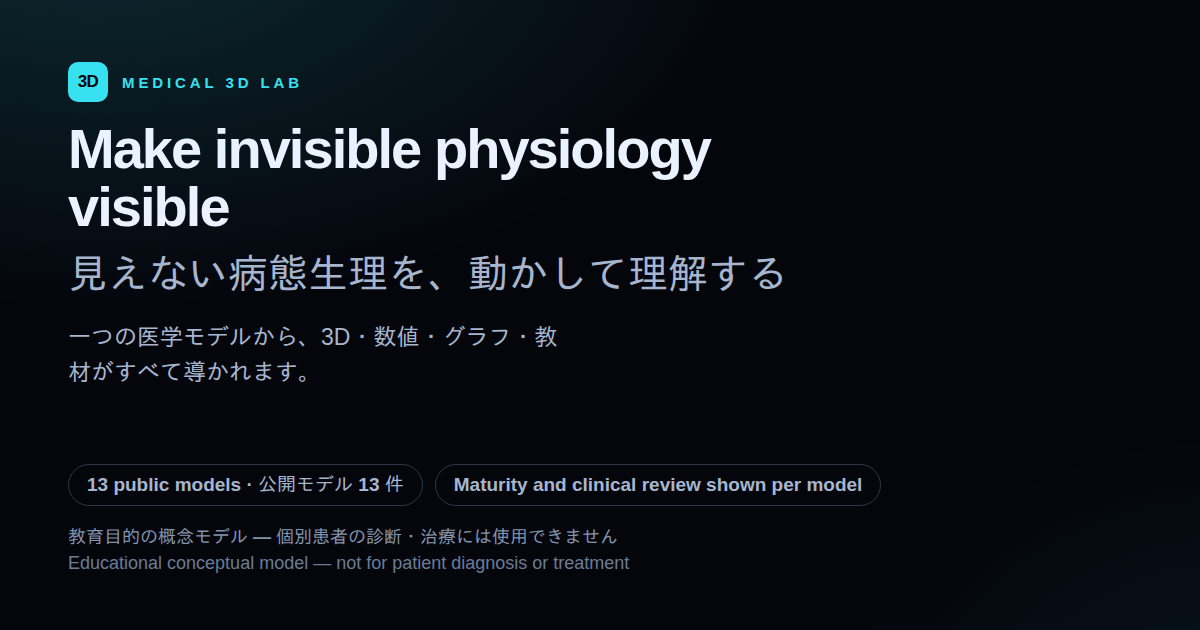
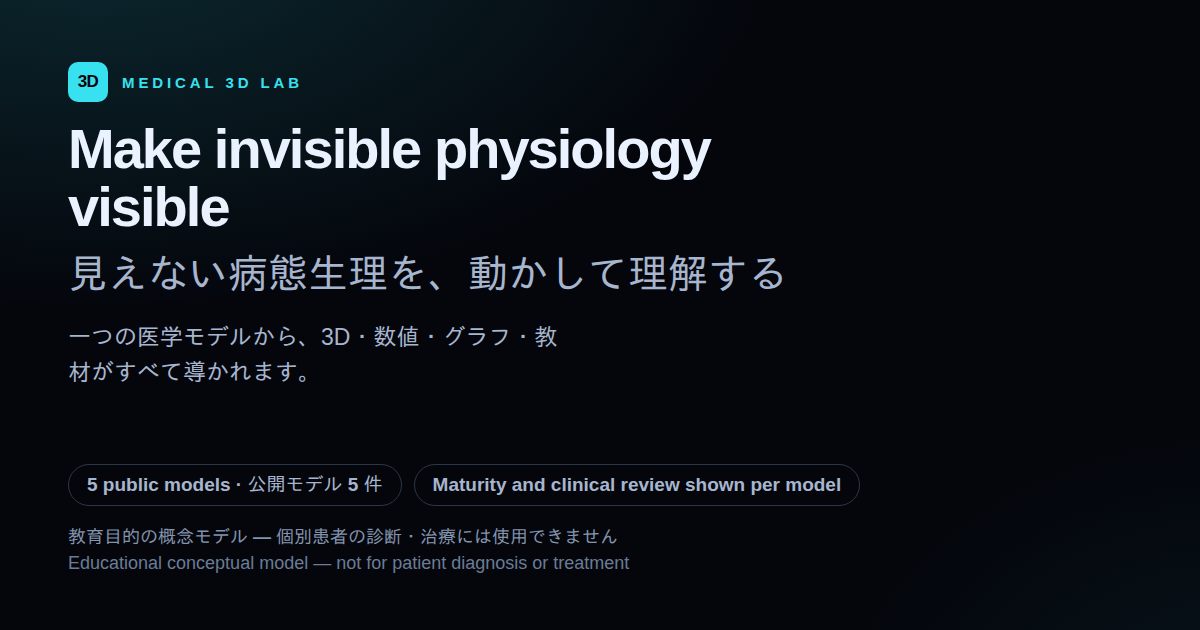
Make the crawlable set open AND public, and stop shipping cards for pages that do not exist
Two defects, and the first one is mine from the previous commit.

Pointing the build at `RELEASED_SCENES` fixed the beta and broke what comes
after it: `isSceneReleased` returns true for everything once the channel is
no longer `'beta'`, so the day the release opens is the day fourteen
Prototypes are published to the crawlable surface — the one thing this
project had already decided not to do. It would not have shown until then.

There are two independent reasons to withhold a page and a set that
satisfies only one of them is a bug in whichever channel it is not checked
in, so `CRAWLABLE_SCENES` holds both together: open, because a static page
inviting a reader to "open the interactive model" that answers "to be
updated" is a promise the site cannot keep; and public, because a Prototype
in a search result is exactly where its caveat gets stripped off. The test
exercises the case the beta cannot reach — everything open — and asserts the
set is then the public catalogue and no more.

The second is the one left standing at the end of the audit. Link-preview
cards were still drawn for all thirteen public scenes, eight of which no
longer have a page to preview: 1.3 MB of images shipped in `public/` that
nothing can reach, and the site card advertising "13 public models" when
five are open. The card set is the crawlable set now, the eight are gone,
and the site card counts what is actually open.

The five surviving scene cards re-rendered byte-identical, which is the
[…]

Changed region(s): [[0.0617, 0.754, 0.74, 0.7841]]

diff --git a/tests/beta-release.test.js b/tests/beta-release.test.js
@@ -2,9 +2,10 @@ import test from 'node:test';
 import assert from 'node:assert/strict';
 import { readFileSync } from 'node:fs';
 
-import { SCENES, sceneById } from '../src/catalog/index.js';
+import { PUBLIC_SCENES, SCENES, sceneById } from '../src/catalog/index.js';
 import {
   BETA_ORGANS,
+  CRAWLABLE_SCENES,
   DEV_UNLOCK_PARAM,
   DEV_UNLOCK_STORAGE_KEY,
   LOCKED_SCENES,
@@ -293,16 +294,20 @@ test('beta release: the crawlable surface and the in-scene navigator read the ga
   // shell that configures the switcher — so what is checked is that each takes
   // its scenes from the gate rather than from the public catalogue.
   const config = read('vite.config.js');
-  assert.match(config, /RELEASED_SCENES/);
-  assert.doesNotMatch(config, /scenes: PUBLIC_SCENES/);
+  assert.match(config, /scenes: CRAWLABLE_SCENES/);
+  assert.doesNotMatch(config, /scenes: (PUBLIC|RELEASED)_SCENES/);
 
   const app = read('src/app/App.js');
   assert.match(app, /systemsWithScenes\(betaUnlocked\(\) \? SCENES : RELEASED_SCENES\)/);
   assert.match(app, /showLab: betaUnlocked\(\)/);
 
   const siteCheck = read('scripts/check-site-output.js');
-  assert.match(siteCheck, /LOCKED_SCENES/, 'the build check has to fail when a locked scene is published');
-  assert.match(siteCheck, /RELEASED_SCENES/);
+  assert.match(siteCheck, /CRAWLABLE_SCENES/);
+  assert.match(
+    siteCheck,
+    /if \(CRAWLABLE_SCENES\.includes\(scene\)\) continue;/,
+    'the build check has to fail on anything published that is not crawlable'
+  );
 });
 
 /** Every text node under an element, in order. */
@@ -319,3 +324,33 @@ function links(node, out = []) {
   for (const child of node.children ?? []) links(child, out);
   return out;
 }
+
+test('beta release: the crawlable set is what is open AND what is public, in both channels', () => {
+  // Two independent reasons to withhold a page, and a set that satisfies only
+  // one of them is a bug in whichever channel it is not checked in. This one
+  // would not have shown until the beta ended: `isSceneReleased` returns true
+  // for everything once the channel changes, so `RELEASED_SCENES` alone would
+  // publish fourteen prototypes on the day the release opens.
+  for (const scene of CRAWLABLE_SCENES) {
+    assert.equal(isSceneReleased(scene), true, `${scene.id} is crawlable but not open`);
+    assert.notEqual(scene.status, 'prototype', `${scene.id} is crawlable and still a Prototype`);
+  }
+  for (const scene of SCENES) {
+    const crawlable = CRAWLABLE_SCENES.includes(scene);
+    const eligible = isSceneReleased(scene) && scene.status !== 'prototype';
+    assert.equal(crawlable, eligible, `${scene.id}: the crawlable set does not follow the two rules`);
+  }
+
+  // The rule has to survive the channel change, which is the case the beta
+  // cannot exercise. Simulated on the same predicates the module uses.
+  const openedUp = SCENES.filter((scene) => true && scene.status !== 'prototype');
+  assert.equal(
+    openedUp.length,
+    PUBLIC_SCENES.length,
+    'once everything is open, the crawlable set is the public catalogue and no more'
+  );
+  assert.ok(
+    openedUp.every((scene) => scene.status !== 'prototype'),
+    'and it never contains a Prototype, whatever the channel'
+  );
+});

diff --git a/scripts/check-site-output.js b/scripts/check-site-output.js
@@ -22,7 +22,7 @@ import { existsSync, readFileSync } from 'node:fs';
 import { join } from 'node:path';
 
 import { SCENES } from '../src/catalog/index.js';
-import { LOCKED_SCENES, RELEASED_SCENES } from '../src/catalog/release.js';
+import { CRAWLABLE_SCENES } from '../src/catalog/release.js';
 import { scenePagePath } from './site-metadata.js';
 
 const args = process.argv.slice(2);
@@ -86,7 +86,7 @@ if (existsSync(join(distDir, 'index.html'))) {
   pages.set('the application shell', readFileSync(join(distDir, 'index.html'), 'utf8'));
 }
 
-for (const scene of RELEASED_SCENES) {
+for (const scene of CRAWLABLE_SCENES) {
   const path = join(distDir, scenePagePath(scene));
   if (!existsSync(path)) {
     problems.push(`${scene.id}: no generated page at ${scenePagePath(scene)}`);
@@ -105,9 +105,10 @@ for (const scene of RELEASED_SCENES) {
 // intend to make: for a Prototype because its shape and motion are provisional,
 // and for anything else because the page would invite a reader to open a model
 // that answers "to be updated".
-for (const scene of LOCKED_SCENES) {
+for (const scene of SCENES) {
+  if (CRAWLABLE_SCENES.includes(scene)) continue;
   if (existsSync(join(distDir, scenePagePath(scene)))) {
-    problems.push(`${scene.id}: work the release has not opened must not be published to the crawlable surface`);
+    problems.push(`${scene.id}: neither open nor public, so it must not be on the crawlable surface`);
   }
 }
 
@@ -116,11 +117,12 @@ if (!existsSync(join(distDir, 'robots.txt'))) problems.push('robots.txt was not 
 const sitemapPath = join(distDir, 'sitemap.xml');
 if (existsSync(sitemapPath)) {
   const xml = readFileSync(sitemapPath, 'utf8');
-  for (const scene of RELEASED_SCENES) {
+  for (const scene of CRAWLABLE_SCENES) {
     if (!xml.includes(`/s/${scene.slug}/`)) problems.push(`${scene.id}: missing from the sitemap`);
   }
-  for (const scene of LOCKED_SCENES) {
-    if (xml.includes(`/s/${scene.slug}/`)) problems.push(`${scene.id}: work the release has not opened is in the sitemap`);
+  for (const scene of SCENES) {
+    if (CRAWLABLE_SCENES.includes(scene)) continue;
+    if (xml.includes(`/s/${scene.slug}/`)) problems.push(`${scene.id}: not crawlable, but in the sitemap`);
   }
 
   // Canonical, Open Graph and the sitemap are all baked in at build time from
@@ -160,7 +162,7 @@ if (existsSync(sitemapPath)) {
 }
 
 console.log(
-  `Crawlable surface — ${RELEASED_SCENES.length} of ${SCENES.length} scene pages checked in ${distDir}`
+  `Crawlable surface — ${CRAWLABLE_SCENES.length} of ${SCENES.length} scene pages checked in ${distDir}`
 );
 for (const note of notes) console.log(`  note: ${note}`);
 
@@ -169,4 +171,4 @@ if (problems.length) {
   for (const problem of problems) console.error(`  - ${problem}`);
   process.exit(1);
 }
-console.log('  ok    every released scene has a page, and nothing the release holds back does');
+console.log('  ok    every crawlable scene has a page, and nothing else does');

diff --git a/tests/social-cards.test.js b/tests/social-cards.test.js
@@ -11,7 +11,8 @@ import test from 'node:test';
 import assert from 'node:assert/strict';
 import { existsSync, readFileSync, readdirSync } from 'node:fs';
 
-import { PUBLIC_SCENES, LAB_SCENES } from '../src/catalog/index.js';
+import { PUBLIC_SCENES, SCENES } from '../src/catalog/index.js';
+import { CRAWLABLE_SCENES } from '../src/catalog/release.js';
 import { SYSTEMS } from '../src/catalog/taxonomy.js';
 import {
   CLINICAL_REVIEW_PRESENTABLE_STATUSES,
@@ -97,10 +98,17 @@ test('cards: every review state a surface can meet has copy of its own', () => {
   }
 });
 
-test('cards: a card is never drawn for a scene the catalogue does not publish', () => {
-  const labSlugs = new Set(LAB_SCENES.map((scene) => scene.slug));
-  for (const slug of labSlugs) {
-    assert.ok(!existsSync(social(`${slug}.png`)), `${slug} is a Lab scene and must not be advertised`);
+test('cards: a card is never drawn for a scene that has no page to preview', () => {
+  // A card previews a page. A scene with no page — because it is a Prototype,
+  // or because the release has not opened it — has nothing to preview, and a
+  // card left behind for one keeps being served to whoever shares the URL.
+  const crawlable = new Set(CRAWLABLE_SCENES.map((scene) => scene.slug));
+  for (const scene of SCENES) {
+    if (crawlable.has(scene.slug)) continue;
+    assert.ok(
+      !existsSync(social(`${scene.slug}.png`)),
+      `${scene.slug} has no crawlable page and must not be advertised`
+    );
   }
 });
 
@@ -118,7 +126,7 @@ test('cards: the committed set still says what the catalogue says', () => {
 
 test('cards: every committed card is a 1200x630 PNG within its size cap', () => {
   let total = 0;
-  for (const scene of [...PUBLIC_SCENES.map((s) => s.slug), 'site']) {
+  for (const scene of [...CRAWLABLE_SCENES.map((s) => s.slug), 'site']) {
     const png = readFileSync(social(`${scene}.png`));
     const size = pngSize(png);
     assert.ok(size, `${scene} is not a PNG`);

diff --git a/scripts/check-social-cards.js b/scripts/check-social-cards.js
@@ -23,7 +23,7 @@
 import { existsSync, readFileSync, readdirSync } from 'node:fs';
 import { join } from 'node:path';
 
-import { PUBLIC_SCENES } from '../src/catalog/index.js';
+import { CRAWLABLE_SCENES } from '../src/catalog/release.js';
 import { SYSTEMS } from '../src/catalog/taxonomy.js';
 import { clinicalReviewPresentation } from '../src/catalog/clinicalReview.js';
 import { CARD_HEIGHT, CARD_WIDTH, cardDigest, siteCardHtml, socialCardHtml } from './social-card.js';
@@ -66,8 +66,8 @@ export function socialCardProblems(dir = join('public', 'social')) {
   const recorded = manifest?.cards ?? {};
 
   const expected = [
-    ...PUBLIC_SCENES.map((scene) => ({ slug: scene.slug, html: (n) => htmlForScene(scene, n) })),
-    { slug: SITE_CARD, html: () => siteCardHtml({ sceneCount: PUBLIC_SCENES.length }) },
+    ...CRAWLABLE_SCENES.map((scene) => ({ slug: scene.slug, html: (n) => htmlForScene(scene, n) })),
+    { slug: SITE_CARD, html: () => siteCardHtml({ sceneCount: CRAWLABLE_SCENES.length }) },
   ];
 
   for (const { slug, html } of expected) {
@@ -112,7 +112,7 @@ export function pngSize(buffer) {
 
 if (import.meta.url === `file://${process.argv[1]}`) {
   const problems = socialCardProblems(process.argv[2]);
-  console.log(`Link-preview cards — ${PUBLIC_SCENES.length + 1} expected at ${CARD_WIDTH}x${CARD_HEIGHT}`);
+  console.log(`Link-preview cards — ${CRAWLABLE_SCENES.length + 1} expected at ${CARD_WIDTH}x${CARD_HEIGHT}`);
   if (problems.length) {
     console.error(`\n${problems.length} problem(s):`);
     for (const problem of problems) console.error(`  - ${problem}`);

diff --git a/src/catalog/release.js b/src/catalog/release.js
@@ -76,6 +76,27 @@ export const RELEASED_SCENES = SCENES.filter(isSceneReleased);
 export const LOCKED_SCENES = SCENES.filter((scene) => !isSceneReleased(scene));
 
 /**
+ * What a crawler is allowed to see: a scene has to be **both** open and public.
+ *
+ * Two independent reasons to withhold a page, and a set that satisfies only one
+ * of them is a bug in whichever channel it is not checked in:
+ *
+ * - **Not open** — a static page inviting a reader to "open the interactive
+ *   model" that then answers "to be updated" is a promise the site cannot keep.
+ * - **Prototype** — its shape and motion are provisional by definition, and a
+ *   search result is exactly where that caveat gets stripped off.
+ *
+ * Taking `RELEASED_SCENES` alone was wrong and would not have shown until the
+ * beta ended: `isSceneReleased` returns true for everything once the channel
+ * changes, so the day this opens is the day fourteen prototypes are published
+ * to the crawlable surface. Taking `PUBLIC_SCENES` alone was the state before
+ * the beta, and it published nine models nobody could open.
+ */
+export const CRAWLABLE_SCENES = SCENES.filter(
+  (scene) => isSceneReleased(scene) && scene.status !== BETA_EXCLUDED_STATUS
+);
+
+/**
  * Product-shell routes that stay open.
  *
  * The landing page and the catalogue are how a visitor reaches a model at all.

diff --git a/vite.config.js b/vite.config.js
@@ -1,6 +1,6 @@
 import { defineConfig, loadEnv } from 'vite';
 
-import { RELEASED_SCENES } from './src/catalog/release.js';
+import { CRAWLABLE_SCENES } from './src/catalog/release.js';
 import { siteMetadataPlugin } from './scripts/site-plugin.js';
 import clinicalReviews from './docs/clinical-reviews/registry.json' with { type: 'json' };
 
@@ -21,13 +21,10 @@ export default defineConfig(({ mode }) => {
     },
     plugins: [
       siteMetadataPlugin({
-        // Released scenes only, for two reasons that point the same way.
-        // Prototype work lives on the Lab shelf and is deliberately not
-        // something a search result can strip the caveat from; and a static
-        // page for a model the release has not opened invites a reader to
-        // "open the interactive model" and then answers "to be updated",
-        // which is a promise the site cannot keep.
-        scenes: RELEASED_SCENES,
+        // Open *and* public — `catalog/release.js` holds the two rules
+        // together, because a set that satisfies only one of them is a bug in
+        // whichever channel it is not checked in.
+        scenes: CRAWLABLE_SCENES,
         reviews: clinicalReviews,
         baseUrl: env.VITE_SITE_URL ?? '',
       }),

diff --git a/docs/beta-release.md b/docs/beta-release.md
@@ -98,17 +98,21 @@ Landing・Explorer・ルーターは同じ答えを見ます。
 
 ---
 
-## 4. 既知のギャップ
+## 4. クロール面とカード
 
-**prototype の臓器モデルは crawlable ではありません。**
-`scripts/check-site-output.js` が「Prototype work must not be published to the
-crawlable surface」を強制しており、prerender・sitemap・link-preview カード
-（`public/social/`）はいずれも `PUBLIC_SCENES` を対象にしています。
-つまり `#/breathing-lungs` を SNS に貼っても、専用の OGP カードではなく
-サイト共通カードが出ます。
+**クロール可能なページとリンクプレビューのカードは「公開中 かつ prototype でない」
+シーンだけ**です（`CRAWLABLE_SCENES`）。理由は 2 つあり、どちらか片方だけで
+集合を作ると、もう片方のチャンネルでバグになります。
 
-これは意図的に**変更していません**——prototype をクローラに出すのは
-「するつもりのない主張をする」ことだ、という既存の判断
-（[`discoverability.md`](discoverability.md)）を、公開範囲の変更のついでに
-覆すべきではないためです。SNS の入口として個別カードが必要になったら、
-それは「その臓器モデルを `alpha` に上げる」という別の判断です。
+- **公開していない** — 静的ページが「対話モデルを開く」と誘っておいて
+  「準備中」を返すのは、サイトが守れない約束です
+- **prototype** — 形も動きも仮なので、検索結果はその但し書きが最も剥がれる場所です
+
+`RELEASED_SCENES` だけで作ると、**β を終わらせた瞬間に prototype 14 件が
+クロール面に出ます**（`isSceneReleased` はチャンネルが変わると全 true）。
+`PUBLIC_SCENES` だけで作るのは β 前の状態で、開けない 9 件を宣伝していました。
+
+いま出ているのは 5 ページ ＋ カード 6 枚（サイトカード込み）です。
+**公開範囲を広げたら `npm run cards` を実行してください**——
+`npm run cards:check` はそれまで落ちます。サイトカードの「公開モデル N 件」も
+この集合から数えるので、実行しないと数が古いままになります。

diff --git a/CHANGELOG.md b/CHANGELOG.md
@@ -76,10 +76,12 @@ person: Safari, Firefox, touch and a screen reader.
 - **Development is unchanged.** `npm run dev` sees everything; a deployed build
   opens with `?preview=1` and closes again with `?preview=0`.
   `docs/beta-release.md` has the whole rule.
-- Known gap: models that are still Prototype stay off the crawlable surface, so
-  sharing one shows the site card rather than a card for that model.
-  Publishing Prototype work to a crawler is a claim this project decided not to
-  make, and a change to the public range is not the moment to overturn it.
+- The crawlable surface and the link-preview cards are the models that are
+  **both** open and public: five pages and six cards. A page that invites a
+  reader to open a model the release has not opened is a promise the site
+  cannot keep, and a Prototype in a search result is a caveat stripped off.
+  The site card counts what is open — five — rather than what is in the
+  catalogue.
 
 ### Two new respiratory models, and the Explorer rebuilt around organs
 
